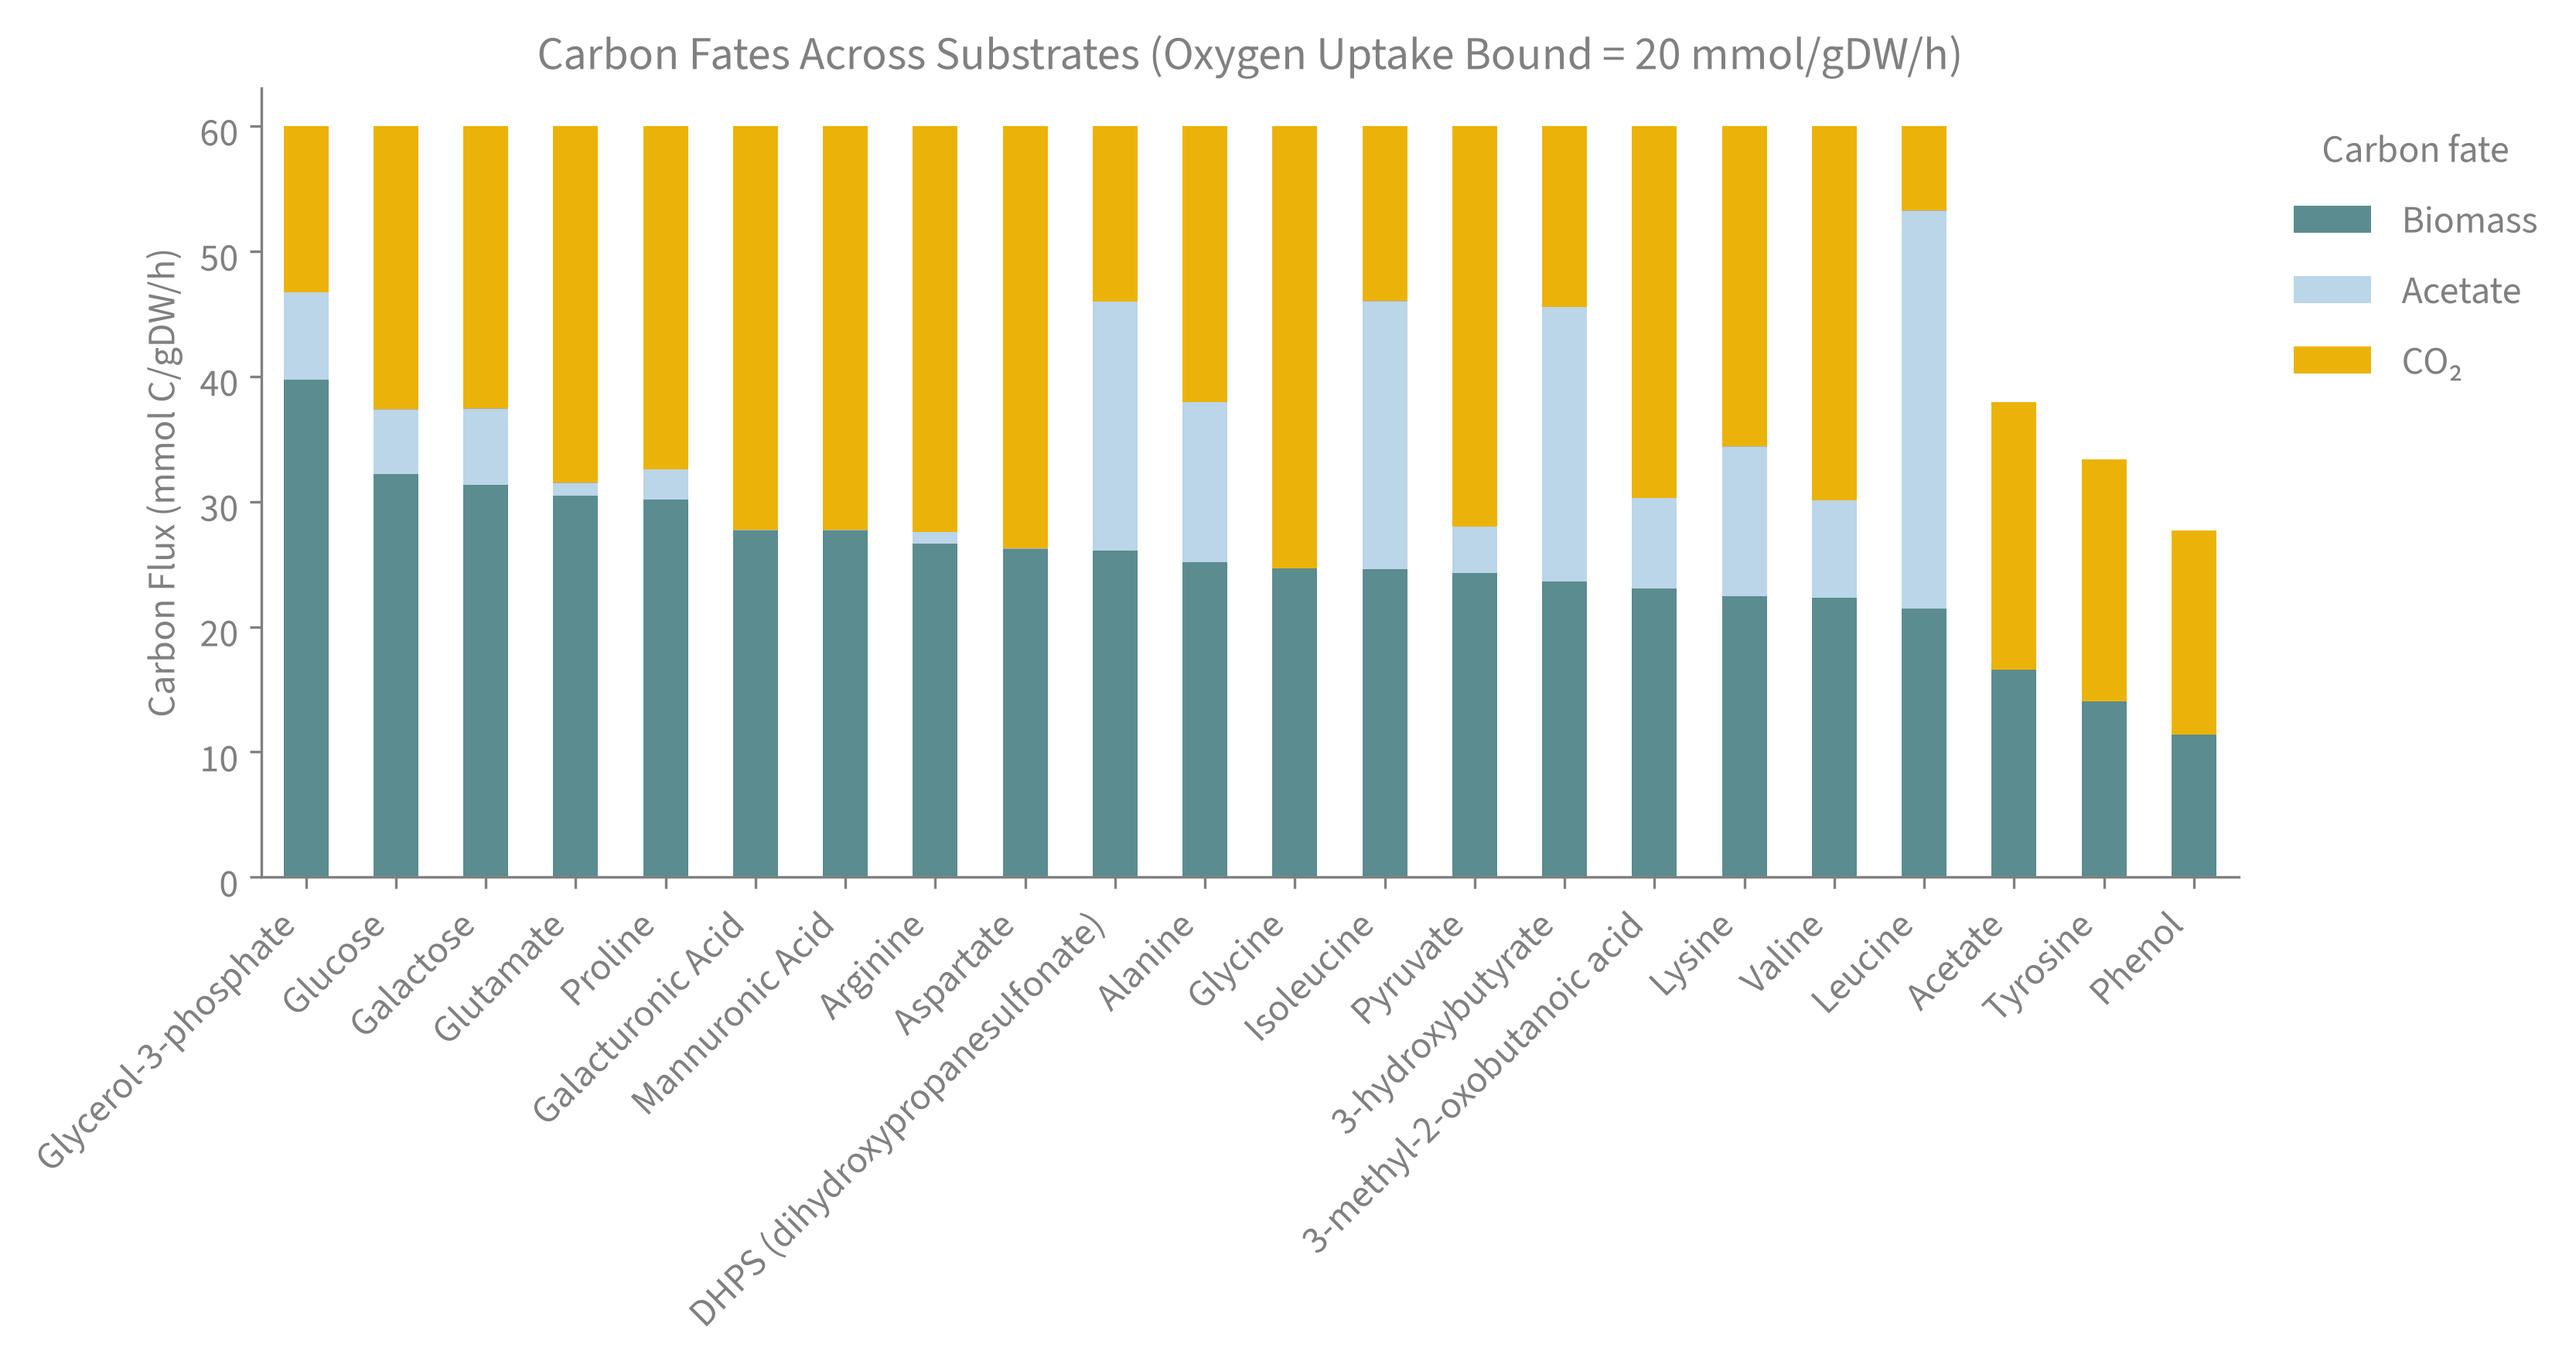
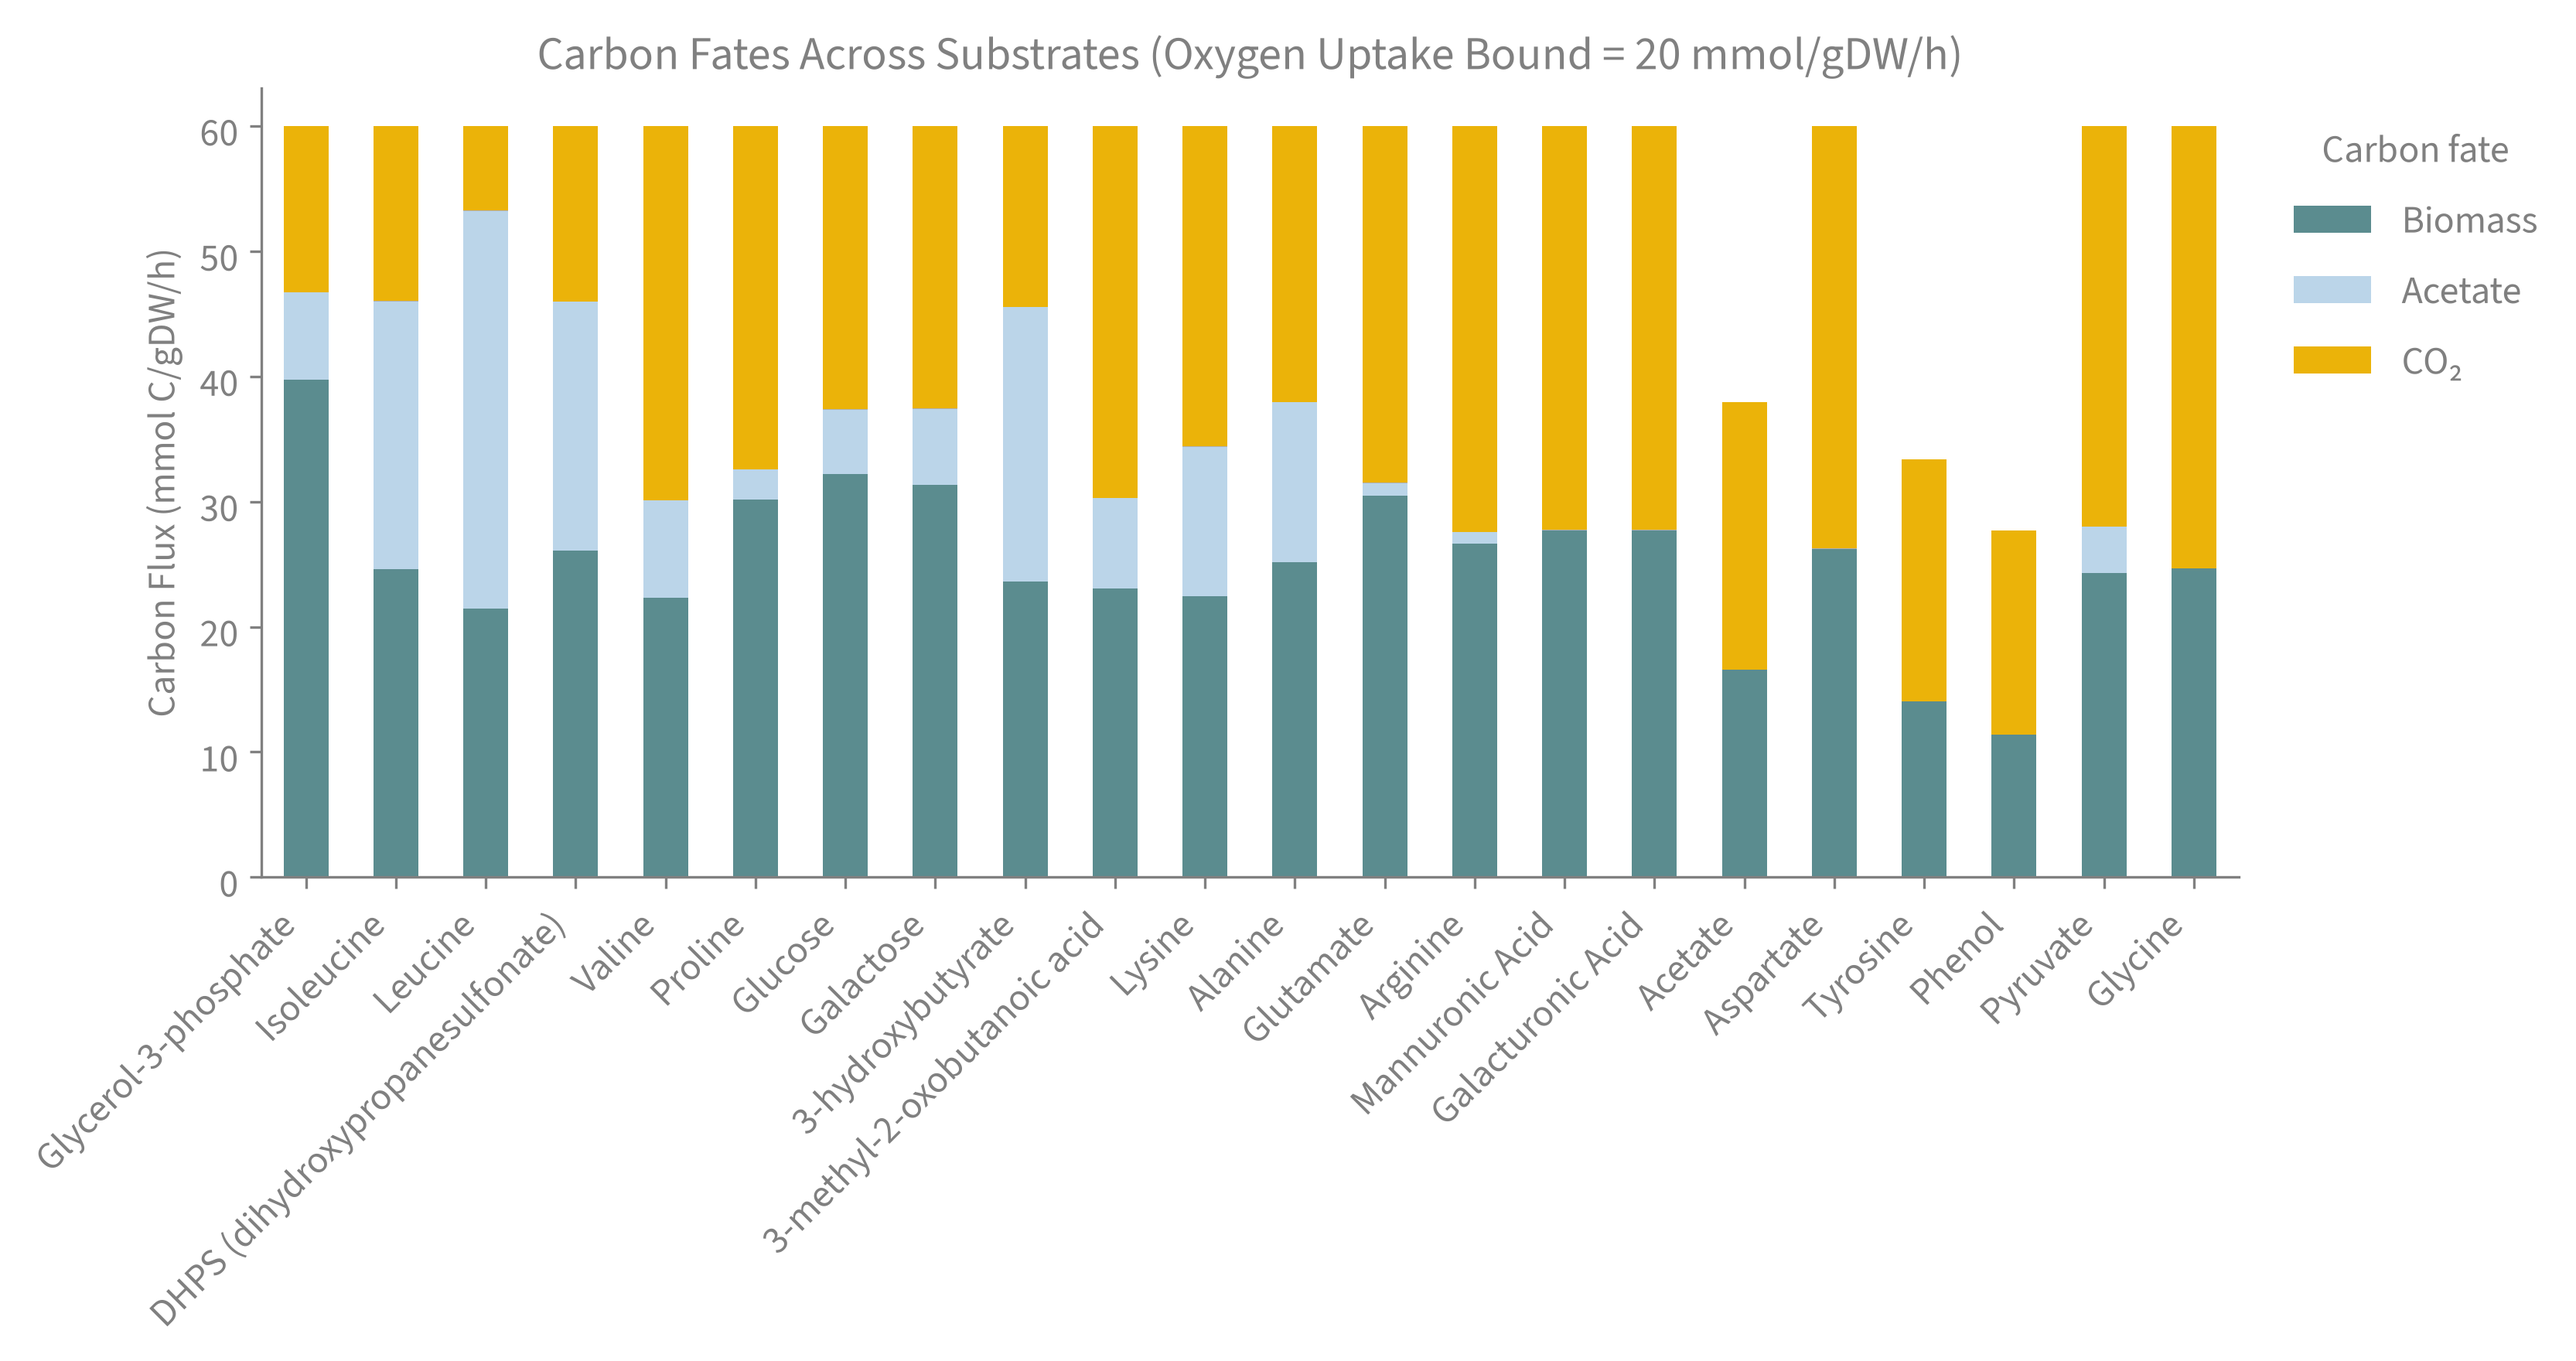
feat: use one substrate order for all across-substrate carbon fates plots
Order every across-substrate figure (raw and normalized, O2 = 20 and 50)
by growth rate at O2 = 50 (unlimited O2), so bars line up between
figures and the effect of O2 limitation can be read substrate by
substrate. Set by SUBSTRATE_ORDER_O2_BOUND.

Claude-Session: https://claude.ai/code/session_014D8wikFwf8nFqFve9XZaQ1

diff --git a/code/simulations/growth_and_cue/plot_cue_vs_growth.py b/code/simulations/growth_and_cue/plot_cue_vs_growth.py
@@ -2,6 +2,7 @@ import ast
 import re
 import sys
 from pathlib import Path
+from typing import Optional
 
 import cobra
 import matplotlib
@@ -105,6 +106,10 @@ OTHER_BYPRODUCT_COLOR = "#B0B0B0"
 
 # O2 uptake bounds to make the across-substrate carbon fates figures for
 ACROSS_SUBSTRATE_O2_BOUNDS = [20, 50]
+# Every across-substrate figure orders the substrates by their growth rate at
+# this O2 bound (unlimited O2), so the bars line up between figures and the
+# effect of O2 limitation can be read bar by bar
+SUBSTRATE_ORDER_O2_BOUND = 50
 
 # Carbon fates segments thinner than this fraction of the tallest bar can't
 # be seen in the figure (0.5% is ~0.3 mmol C/gDW/h of a 60 mmol C bar), so
@@ -236,6 +241,10 @@ def main():
     # every substrate's saturating O2 uptake, so it stands in for unlimited O2;
     # O2 = 20 is limiting for most of the panel. Each is made twice: as carbon
     # flux, and normalized to each substrate's carbon uptake.
+    order_df = merged_df[np.isclose(merged_df["o2_bound"], SUBSTRATE_ORDER_O2_BOUND)]
+    substrate_order = order_df.sort_values("growth_rate", ascending=False)[
+        "substrate"
+    ].tolist()
     for o2_bound in ACROSS_SUBSTRATE_O2_BOUNDS:
         for normalize in [False, True]:
             suffix = "_normalized" if normalize else ""
@@ -246,6 +255,7 @@ def main():
                 byproduct_palette,
                 OUT_PATH,
                 f"carbon_fates_across_substrates_o2_{o2_bound:g}{suffix}",
+                substrate_order=substrate_order,
                 normalize=normalize,
             )
 
@@ -414,13 +424,15 @@ def plot_carbon_fates_across_substrates(
     byproduct_palette: dict,
     out_path: Path,
     filename: str,
+    substrate_order: Optional[list] = None,
     normalize: bool = False,
 ) -> None:
     """Stacked carbon fates bar for every substrate at one O2 uptake bound.
 
     Same segments, colours and stacking order as the per-substrate plots in
     figures/carbon_fates/ (biomass, then organic byproducts, then CO2). Bars
-    are sorted by growth rate, highest first.
+    follow `substrate_order` if given (so several figures can share one
+    order), otherwise they are sorted by growth rate, highest first.
 
     Because total carbon uptake is fixed, each bar sums to the uptake, the
     biomass segment is proportional to growth rate, and CUE is everything
@@ -437,8 +449,14 @@ def plot_carbon_fates_across_substrates(
     df = summary_df[np.isclose(summary_df["o2_bound"], o2_bound)]
     if df.empty:
         raise ValueError(f"No results for O2 uptake bound = {o2_bound}")
-    # Sort by growth rate, highest first, and index by substrate name
+    # Index by substrate name, in the requested order or by growth rate
     df = df.sort_values("growth_rate", ascending=False).set_index("substrate")
+    if substrate_order is not None:
+        missing = set(df.index) - set(substrate_order)
+        if missing:
+            raise ValueError(f"Substrates missing from substrate_order: {missing}")
+        # Substrates that didn't grow at this O2 bound are simply left out
+        df = df.loc[[sub for sub in substrate_order if sub in df.index]]
 
     # Build the carbon fates table the same way as the per-substrate plots
     byp_df = carbon_fates_byproduct_columns(df, ex_name_map, byproduct_palette)
